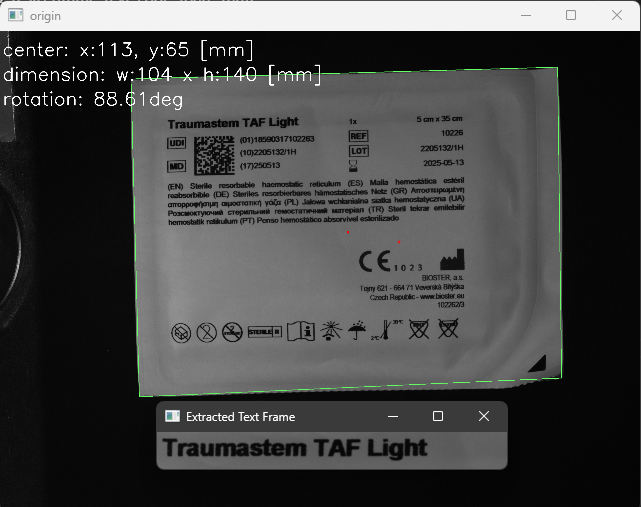
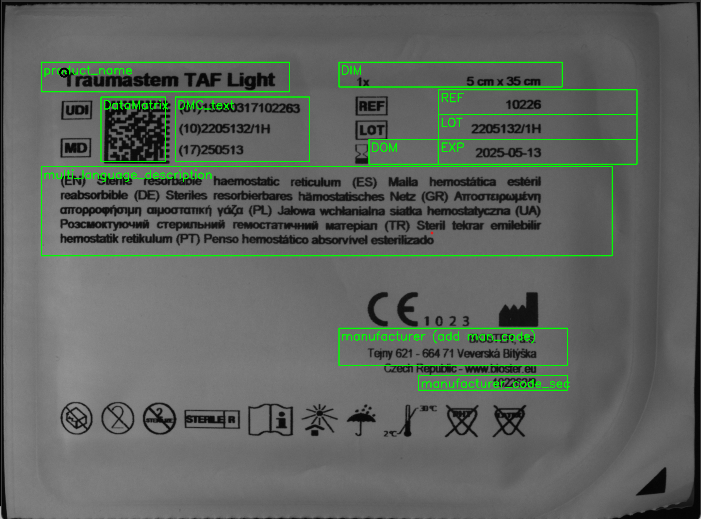
change image and describtion

diff --git a/public/python/compareTextArticle.md b/public/python/compareTextArticle.md
@@ -87,28 +87,29 @@ for key, value in product_references.items():
 
 ## 🖥 Example Output (Command Line)
 ```text
-origin text: 10226
-read text : 10226
+Checking: product_name
+origin text: Traumastem Taf Light
+read text  : Traumastem TAF Light
+similarity 88.89
+
+Checking: manufacturer
+origin text: BIOSTER, a.s. Tejny 621 - 664 71 Veverská Bítýška Czech Republic - www.bioster.eu
+read text  : BIOSTER as Tejny 621 - 664 71 Veverská Bítýška Czech Repubilic - www bioster eu
+similarity 95.38
+
+Checking: DMC_text
+origin text: (01)18590317102263 (10)2205132/1H (17)250513
+read text  : (01)1859031 7102263 (10)2205132/1H (17)250513
 similarity 100.0
 
-checking: LOT
+Checking: LOT
 origin text: 2208122/1H
-read text : 2205132/1H
+read text  : 2205132/1H
 similarity 80.0
 
-checking: EXP
+Checking: EXP
 origin text: 2026-08-01
-read text : 2025-05-13
+read text  : 2025-05-13
 similarity 62.5
-
-checking:
-origin text: (EN) Sterile resorbable haemostatic reticulum (ES) Maua hemostätica estéciJ reabsorbible (DE) Sternes
-resorbiecbaces hämostatisches Netz (GR) AnootEtpwgÉvn anoppo#iotgn atgooraruai vå<a (PL) Jalowa wchlanialna siatka
-hemostatyczna (UA) P03cM0KTYi0H"i crepw16HHi remocraTHHHHi maTepian (TR) Steril tekrar emilebilir hemostatik retikulum (PT)
-Penso hemostätico absorviveJ esterilizado
-
-read text : cmroppoetoq ano yun YABe VE ee ee PoscmoxTyiouni CTEPMNICHW•IÄ Marepian (TR)
-hemostatik retikulum (P T) Penso hemostatico
-similarity 35.18
 ```
 
